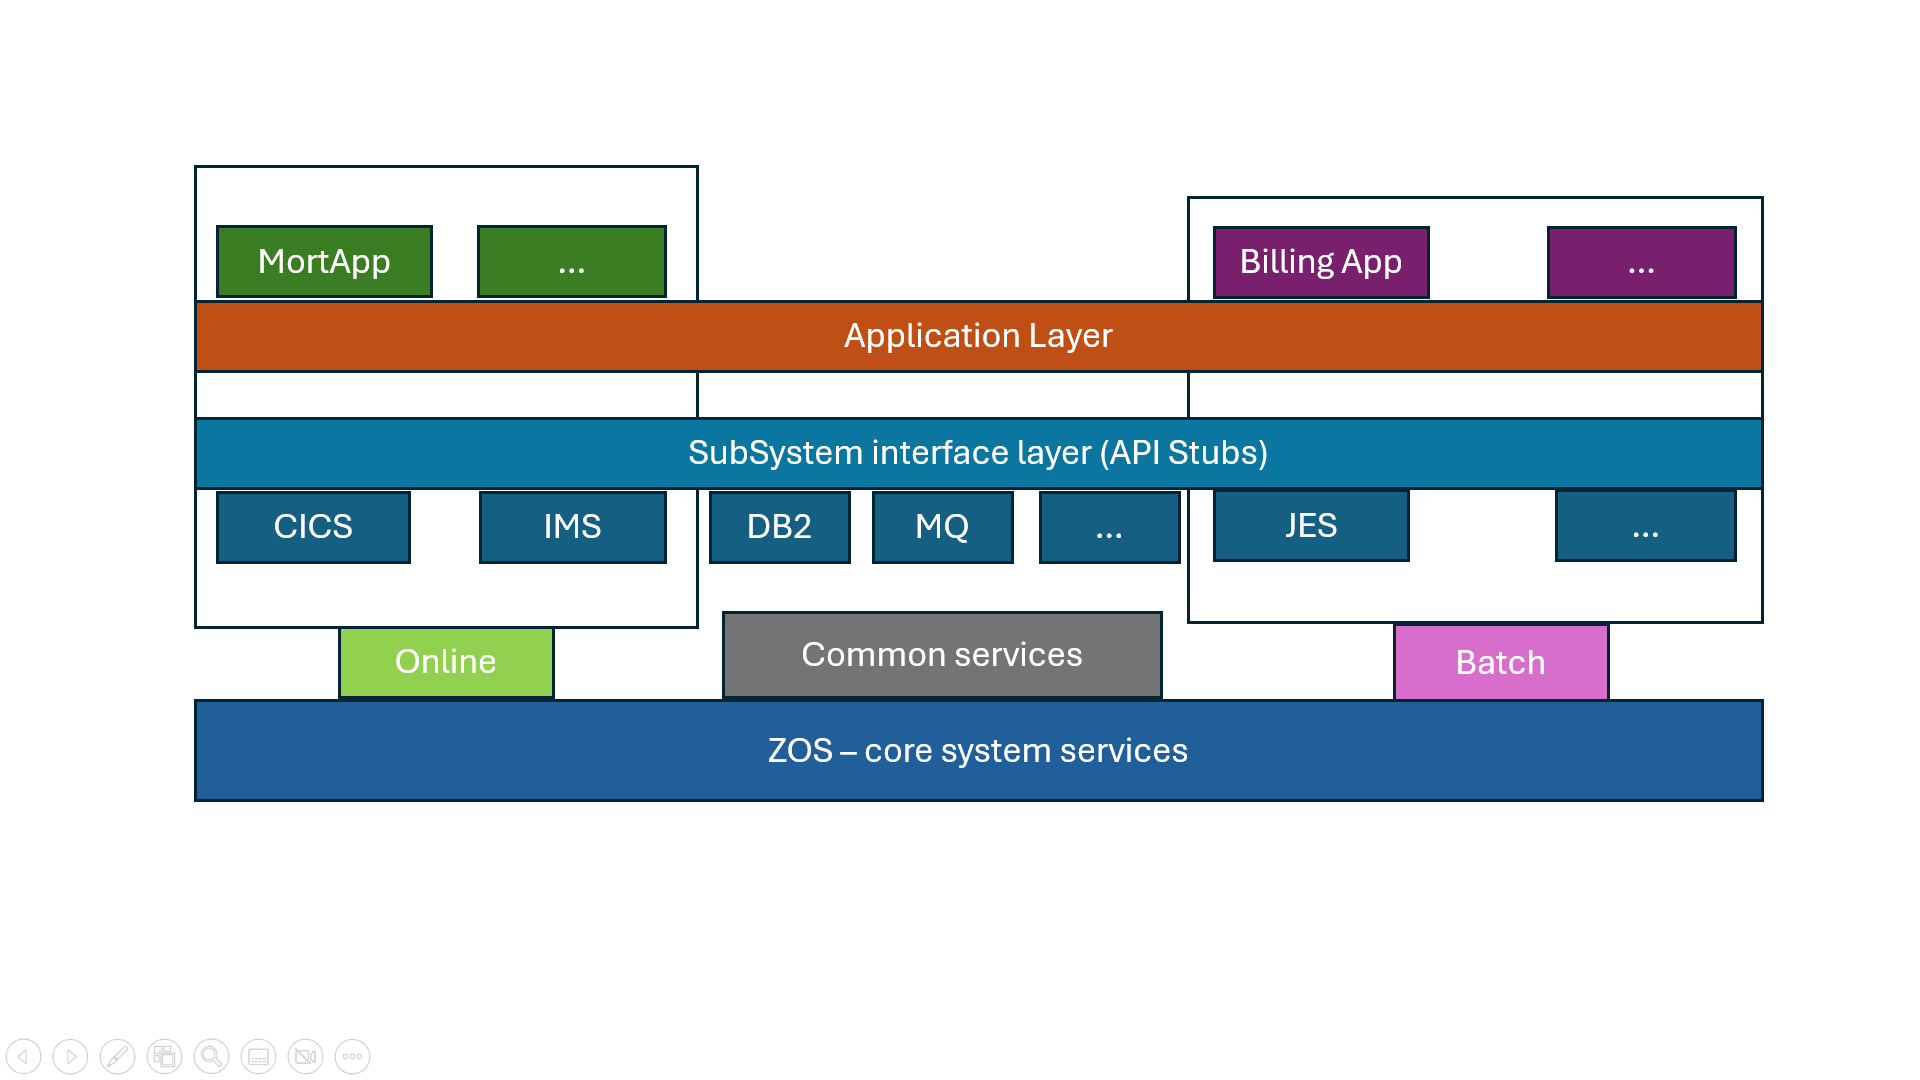
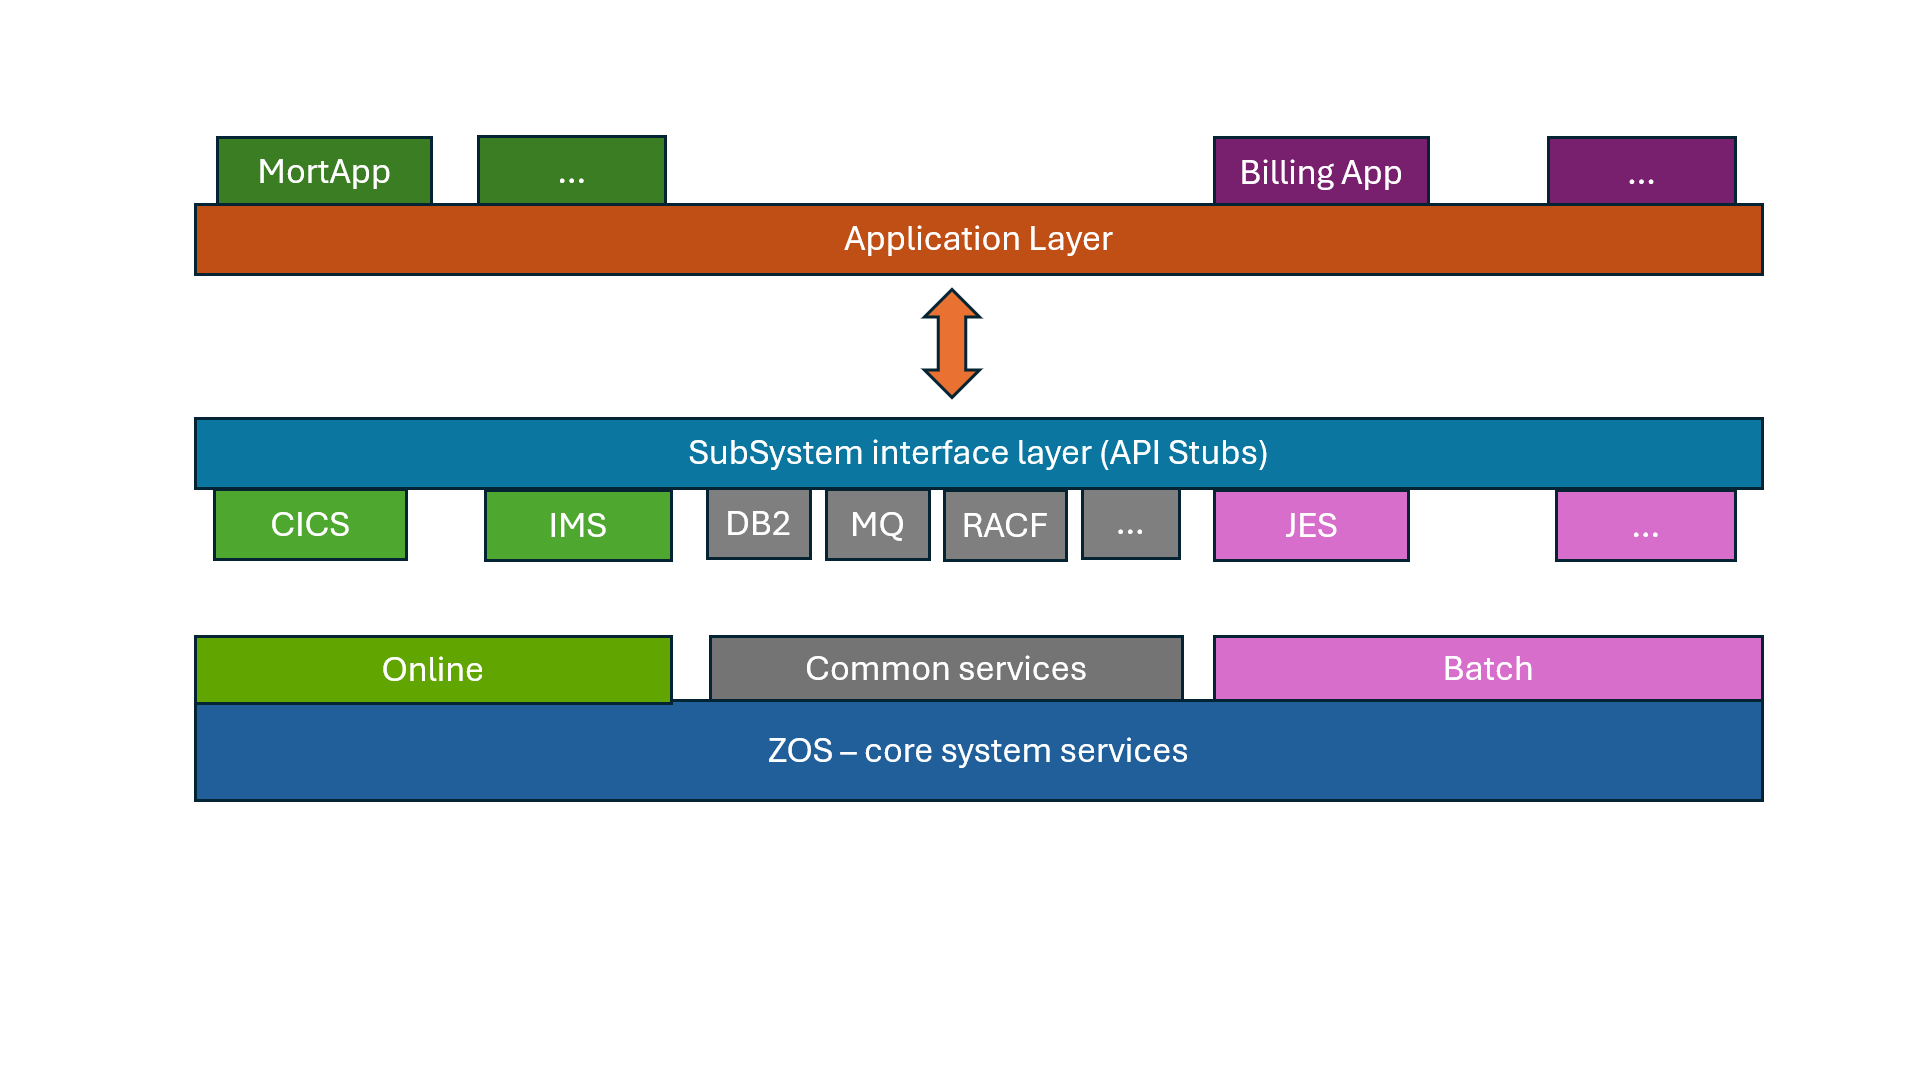
test

diff --git a/WaaS_Setup/readme.md b/WaaS_Setup/readme.md
@@ -1,9 +1,9 @@
 # Concepts in Mainframe Application Design, Configuration and Deployment
-This is for those new to zOS application development. The goal is to provide an overview on how mainframe applications work. Using the sample CICS/DB2 'MortgageApplication' (MortApp) found in this repo, you will understand:
-  - basic application program design
+This is for those new to zOS application development. The goal is to provide an overview on how mainframe applications work. Using the IBM sample CICS/DB2 'MortgageApplication' (MortApp) found in this repo, you will understand:
+  - basic CICS application design
   - application and system level configurations
   - build and deploy (non CD mode) 
-  - how to initialize a new zOS environment like a WaaS 3.1 stock image. 
+  - considerations in porting an application to a new zOS environment like a [Wazi as a Service](https://www.ibm.com/docs/en/wazi-aas/1.0.0?topic=overview) (WaaS 3.1) stock image
 
 As an additional aid, links to external reference material are provided. 
 
@@ -37,37 +37,46 @@ Mainframe programs are written mostly in Cobol. Others can be in Assembler, PLI 
 ## MortApp Design 
 A basic [CICS/DB2 application](https://www.ibm.com/docs/en/cics-ts/5.6?topic=fundamentals-cics-applications) has business logic, a data layer and screen(s) that are also called map(s).  
 
-The Mortapp is designed with 3 types of programs.  A main program, a map program and subprograms:
-- [eps**c**mort.cbl](../MortgageApplication/cobol/epscmort.cbl#L149-L154) is the main program. It uses the "EXEC CICS SEND MAP ..." Cobol API to call program **bms/epsmort**.   It also has "EXEC SQL ..." to access DB2 data. 
-- [epsmort.bms](../MortgageApplication/bms/epsmort.bms) is a 3270 [BMS](https://www.ibm.com/docs/en/cics-ts/5.6?topic=programs-basic-mapping-support) program written in assembler language.  
-  - The compiler's transforms this source file into 2 artifacts; a [symbolic copybook 'EPSMORT' and a physical executable load module](https://www.ibm.com/docs/en/cics-ts/6.1?topic=map-physical-symbolic-sets). 
-  - The symbolic copybook is saved in a [Partitioned Dataset - PDS](https://www.ibm.com/docs/en/zos-basic-skills?topic=set-types-data-sets) allocated with the dbb-zappbuild 'HLQ' argument. 
-  - This PDS is then used as the SYSLIB DD in the compile phase of subsequent DBB builds. 
-  - A program accesses the EPSMORT symbolic copybook with the Cobol statement ['COPY   EPSMORT'](../MortgageApplication/cobol/epscmort.cbl#L54). This causes the compiler to expand the copybook in the program as shown this sample output SYSPRINT listing of the EPSCMORT compile.
-    <img src="../images/epsmort.png" width="700">
-    ```A special note on DBB builds is that BMS copybooks are not stored in the source repo like other copybooks.  Instead they are stored in the PDS created during the DBB build of the BMS program. ```
-    <br />   
-- [cobol/epscsmrt.cbl](../MortgageApplication/cobol/epscsmrt.cbl) is a subprogram called by EPSCMORT "EXEC CICS LINK PROGRAM( W-CALL-PROGRAM ) COMMAREA( W-COMMUNICATION-AREA )" to calculate a mortgage. 
-  - W-COMMUNICATION-AREA is the COMMAREA used to exchange data between programs. In Cobol, they are included in each program as a shared copybook.  
-- [copybook/epsmtcom.cpy](../MortgageApplication/copybook/epsmtcom.cpy) is the COMMAREA designed for this application. It includes 2 other copybooks. One for  input and another output data structures.
+The MortApp is designed with 4 types of source files; A main program, a map program, subprograms and COMMAREAs:
+1. [eps**c**mort.cbl](../MortgageApplication/cobol/epscmort.cbl#L149-L154) 
+   - is the main program. 
+   - it uses the ```"EXEC CICS SEND MAP ..."``` Cobol statement to call program **bms/epsmort**.   
+   - it also uses ```"EXEC SQL ..."``` to access DB2 data. 
+<br />   
+1. [epsmort.bms](../MortgageApplication/bms/epsmort.bms) 
+   - is a 3270 [BMS](https://www.ibm.com/docs/en/cics-ts/5.6?topic=programs-basic-mapping-support) program written in assembler language.  
+   - the compiler creates 2 artifacts from this source code:
+     - a symbolic copybook
+     - a physical load module  
+   - when EPSCMORT is built, the compiler allocates the copybook SYSLIB PDS and adds the source to the program
+   - **Note**- BMS copybooks are not stored in the application repo like other copybooks.  Instead they are stored in the PDS created during the DBB build of the BMS program.
+  <br />   
+
+1. [cobol/epscsmrt.cbl](../MortgageApplication/cobol/epscsmrt.cbl) 
+   - is a subprogram called by EPSCMORT ```"EXEC CICS LINK PROGRAM( W-CALL-PROGRAM ) **COMMAREA**( W-COMMUNICATION-AREA )"``` to calculate a mortgage. 
+<br />  
+
+1. [copybook/epsmtcom.cpy](../MortgageApplication/copybook/epsmtcom.cpy)  
+   - is the COMMAREA used to exchange data between programs
+   - in Cobol, they are included in each program from a shared copybook PDS
+   - COMMAREAs are designed  for this application. It includes 2 other copybooks; one for input the other for output data structures
 
 **DB2** on zOS is an IBM product that provides Database services to interactive and batch applications.  Programmers use Structure Query Language(SQL) to read and write to DB2 tables. 
 
 
-## The infrastructure
-The diagram below illustrates the different layers of a mainframe application.  zOS, the operating system, is at the bottom and supervises applications, subsystems (middleware) and the hardware resources they use (not shown).   Above zOS are groups for the online and batch subsystems.  DB2, MQ and other subsystems provide common services. At the top is the application layer and access subsystem services through an API layer. 
+## Main Application Infrastructure Services
+The diagram below illustrates the different layers used to support mainframe applications.  zOS, the operating system, is at the bottom and supervises applications, subsystems (middleware) and the hardware resources (not shown).   Above zOS are groups for the online and batch subsystems.  DB2, RACF and other subsystems provide common services across all types of applications. At the top is the application layer which access subsystem services through an API layer. 
 <img src="../images/zarch.png" width="700">
 
+Let's see how and API call is created from the Cobol source code [```"EXEC CICS SEND MAP('EPMENU') MAPSET('EPSMORT') ..."```](../MortgageApplication/cobol/epscmort.cbl#L149-L154) used in EPSCMORT: 
 
-Let's see how and API call is created from the Cobol source code ['EXEC CICS SEND MAP('EPMENU') MAPSET('EPSMORT') ...'](../MortgageApplication/cobol/epscmort.cbl#L149-L154) used in EPSCMORT: 
-
-- At compile time, the translate phase converts  'EXEC CICS ' statements into the acutal code that calls the API. 
+- At compile time, the translate phase converts  ```"EXEC CICS ..."``` statements into the acutal code that calls the API. 
 - dbb-zappbuild's cobol.groovy script defines the location of the  API with the SYSLIB DD in the link-edit phase.    
 - At link-edit time, the API is [statically ](https://www.ibm.com/docs/nl/cobol-zos/6.3?topic=program-examples-static-dynamic-call-statements) linked to EPSCMORT to create a single load module.    
   
 - At runtime, when EPSCMORT calls the 'Send Map', the CICS API loads and executes the EPSMORT MAPSET application program to display its 3270 map (map and screen are the same thing).  
 
-The compiler 'pre-compiles' all "EXEC SQL ..." into  into DB2 API calls. 
+The compiler 'pre-compiles' all ```"EXEC SQL ..."``` into  into DB2 API calls. 
 
 The diagram below illustrates how a static program or API like "PROGB" is linked into another main program "PROGA" to produce one load module. Notice how the source languages can be different; Cobol and Assembler in this case. 
 <img src="../images/build1.png" width="600">
@@ -150,8 +159,8 @@ When a DB2 program is precompiled, a DB2 Database Request Module (DBRM) artifact
    -  defines the plan's PKLIST "Package List" named "EPS.\*".  A PKLIST is a collection of one or more packages for a plan. 
 
 <img src="../images/epsbind.png"  width="700">  
-
-<br />
+<br/>
+<br/>
 
 
 [epsgrant.jcl](../WaaS_Setup/initVSI-JCL/epsgrant.jcl#L19) is run once to grant public (all users) access to execute the new EPSPLAN.  A grant is a DB2 command to manage access to resources. In a WasS environment access can be given to all.  In a production environment, access is normally given to a RACF group owned by an application like, for example, EPS. 
@@ -178,7 +187,7 @@ RACF is the security subsystem on zOS.  There are others like 'Top Secret' and A
 
 All processes run under an authenticated user ID.  CICS and TSO use a login screen to authenticate users with a secret password. An SSH connection to zOS can authenticate users with a password, SSH key or zOS Certs. 
 
-STCs like CICS, DB2, UCD Agent, pipeline runners are assigned a RACF user id by the zOS Security Admins.  This special ID is called a [protected account](https://www.ibm.com/docs/no/zos/2.4.0?topic=users-defining-protected-user-ids) and they tend to have a higher level of access privileges than users.  
+STCs like CICS, DB2, UCD Agent, pipeline runners are assigned a RACF user ID by the zOS Security Admins.  This special ID is called a [protected account](https://www.ibm.com/docs/no/zos/2.4.0?topic=users-defining-protected-user-ids) and they tend to have a higher level of access privileges than users.  
 
 In a new zOS environment, connectivity between [DB2 and CICS](https://www.ibm.com/docs/en/cics-ts/5.6?topic=interface-overview-how-cics-connects-db2) must be defined under RACF using a sample job like [racfdef.jcl](../WaaS_Setup/initVSI-JCL/racfdef.jcl#12).  It creates 2 facility classes and permissions need for that connection:
  - ```'RDEFINE FACILITY DFHDB2.AUTHTYPE.**DBD1**'``` - defines a DB2 RACF resource name ending in "DBD1". This is the same name used in the "DB2CONN=**DBD1**" resource defined in the DFHCSDUP job. "DBD1" is an example name. Any name can be used as long as they are the same in RACF and CICS.
@@ -190,4 +199,7 @@ The 'PE' RACF commands creates profile to '**PE**rmit' user(s) access to a resou
 <img src="../images/racdef.png"  width="700">
   
 ## Summary
-The items explain here are the basic configurations for a simple CICS/DB2 application.  Real world production applications may include many other components that are defined similarly to what was described here. The goal was to provide the concept and key terms. 
+Using the sample MortApp we covered the basic design and configuration concepts and tasks that are common across CICS/DB2 applications. These same tasks can be performed to port any CICS/DB2 application to a new zOS environment like a WaaS stock image or other new zOS environment. 
+
+As illustrated below, additional DevOps processes and tools like Git, CI and CD can be add to a new environment to provide a full end-to-end DevOps worklow for early dev and test. 
+<img src="../images/waasdevops.png"  width="700">
